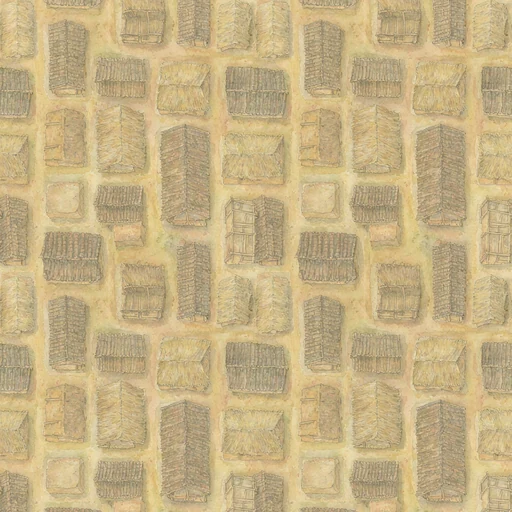
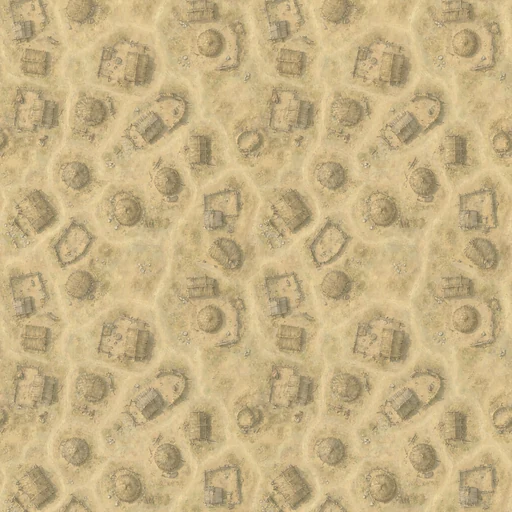
feat(city): 时代角标补罗马数字 VI~VIII；重出 1/2/3 三档（散落院落 / 方院直街 / 联排砖屋+棱堡）

diff --git a/src/ui/board.ts b/src/ui/board.ts
@@ -473,7 +473,14 @@ function hpClass(ratio: number): string {
 
 /** 时代用罗马数字表示，比阿拉伯数字更像"时代" */
 function romanEra(era: number): string {
-  return ['I', 'II', 'III', 'IV', 'V'][era - 1] ?? String(era);
+  /*
+   * 八档都在表里（2026-11-16 补 VI~VIII）。
+   *
+   * 之前只写到 V，第六时代之后会掉回阿拉伯数字——棋盘上于是出现
+   * "I / V / 6 / 7 / 8" 混排：同一枚角标两种写法，看着像出了 bug。
+   * 兜底保留 String(era)：以后再加时代没来得及补表，也只是数字而不是空。
+   */
+  return ['I', 'II', 'III', 'IV', 'V', 'VI', 'VII', 'VIII'][era - 1] ?? String(era);
 }
 
 /**
